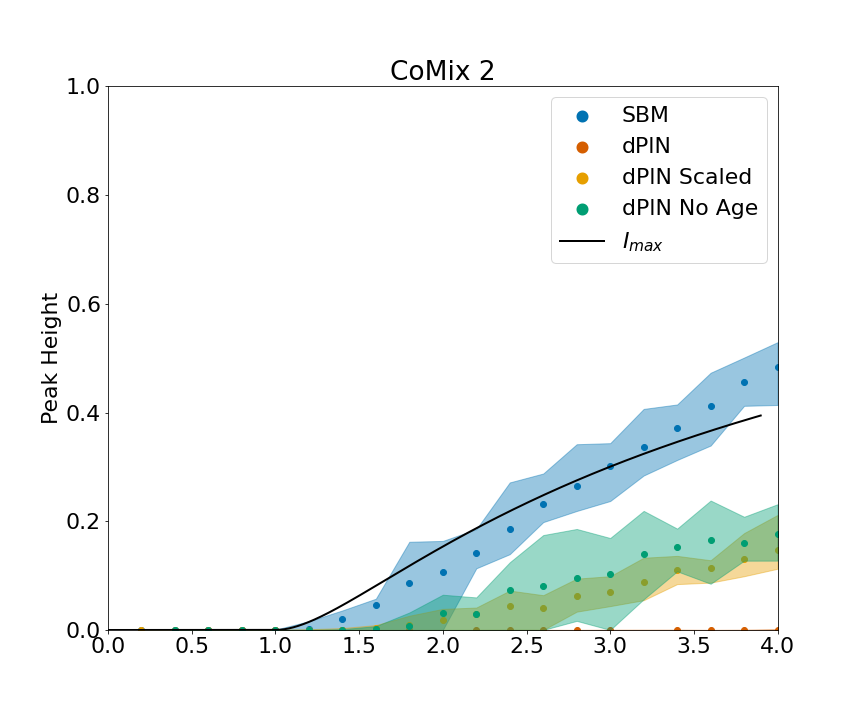
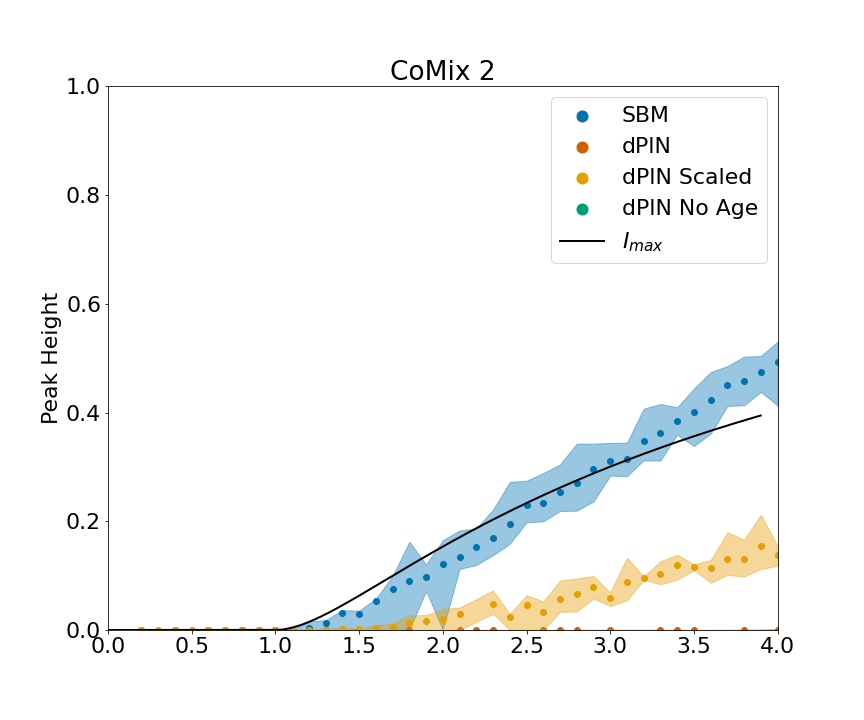
no age sims 3, normal and scaled 17

Changed region(s): [[0.3125, 0.55, 0.9062, 0.8861], [0.5938, 0.6417, 0.6562, 0.6722], [0.875, 0.4889, 0.9062, 0.5194]]

diff --git a/_final_sellke.py b/_final_sellke.py
@@ -22,10 +22,14 @@ scales = ['none', 'none']
 # taus = [[np.arange(0.1,0.205,0.005), np.arange(0.0005,0.01,0.0005)],
 #         [np.arange(0.05,0.2,0.01), np.arange(0.0005,0.01,0.0005)],
 #         [np.arange(0.001,0.1,0.005), np.arange(0.0025,0.05,0.0025)]]
-# 10,11,12,13,14,15,16,17
-taus = [[np.arange(0.1,0.305,0.005), np.arange(0.0001,0.005,0.0001)],
-        [np.arange(0.05,0.25,0.005), np.arange(0.0001,0.005,0.0001)],
-        [np.arange(0.001,0.1,0.002), np.arange(0.0001,0.04,0.0001)]]
+# 10,11,12,13,14,15,16
+# taus = [[np.arange(0.1,0.305,0.005), np.arange(0.0001,0.005,0.0001)],
+#         [np.arange(0.05,0.25,0.005), np.arange(0.0001,0.005,0.0001)],
+#         [np.arange(0.001,0.1,0.002), np.arange(0.0001,0.04,0.0001)]]
+# 17,18
+taus = [[np.arange(0.28,0.38,0.005), np.arange(0.0001,0.005,0.0001)],
+        [np.arange(0.2,0.32,0.005), np.arange(0.0001,0.002,0.0001)],
+        [np.arange(0.001,0.08,0.001), np.arange(0.0001,0.03,0.0001)]]
 
 ### long
 ## 0,1,2
@@ -42,6 +46,6 @@ for i, data in enumerate(datas):
         else:
             params = np.genfromtxt(f'input_data/parameters/params_{data}_{model}.csv', delimiter=',')
         result = nd_p.big_sellke_sims(partitions=partitions,contact_matrix=contact_matrix,network_params=params,n=n,dist_type=model,num_networks=1,iterations=iters, taus=taus[i][j],prop_infec=10/n, scaling=scales[j])
-        with open(f'../output_data/simulations/big/sellke/SIR/16_{data}_{model}_{scales[j]}.json','w') as f:
+        with open(f'../output_data/simulations/big/sellke/SIR/17_{data}_{model}_{scales[j]}.json','w') as f:
             json.dump(result, f)
 print('done')

diff --git a/_final_sellke_scale.py b/_final_sellke_scale.py
@@ -24,11 +24,16 @@ scales = ['fit1', 'fit2']
 #         [[],np.arange(0.001,0.07,0.002)],
 #         [[],np.arange(0.001,0.05,0.002)]]
 # taus = [[10*x for x in a] for a in taus]
-# 10,11,12,13,14,15,16,17
+# 10,11,12,13,14,15,16
+# taus = [[np.arange(0.0005,0.01,0.0005)],
+#         [np.arange(0.0005,0.09,0.0005)],
+#         [np.arange(0.0005,0.06,0.0005)]]
+# taus = [[10*x for x in a] for a in taus]
+# 17
 taus = [[np.arange(0.0005,0.01,0.0005)],
         [np.arange(0.0005,0.09,0.0005)],
         [np.arange(0.0005,0.06,0.0005)]]
-taus = [[10*x for x in a] for a in taus]
+taus = [[15*x for x in a] for a in taus]
 
 ##long
 ## 0,1,2
@@ -46,6 +51,6 @@ for i, data in enumerate(datas):
         else:
             params = np.genfromtxt(f'input_data/parameters/params_{data}_{model}.csv', delimiter=',')
         result = nd_p.big_sellke_sims(partitions=partitions,contact_matrix=contact_matrix,network_params=params,n=n,dist_type=model,num_networks=1,iterations=iters, taus=taus[i][j],prop_infec=10/n, scaling=scales[j])
-        with open(f'../output_data/simulations/big/sellke/SIR/16_{data}_{model}_{scales[j]}.json','w') as f:
+        with open(f'../output_data/simulations/big/sellke/SIR/17_{data}_{model}_{scales[j]}.json','w') as f:
             json.dump(result, f)
 print('done')

diff --git a/_final_sellke_noage_c1.py b/_final_sellke_noage_c1.py
@@ -59,6 +59,6 @@ for i, data in enumerate(datas):
         df = pd.read_csv(f'input_data/{data}.csv')
         _, contact_matrix, params = nd_p.fit_to_data(df=df,dist_type=model, buckets=buckets, save_fig=False)
         result = nd_p.big_sellke_sims(partitions=partitions,contact_matrix=contact_matrix,network_params=params,n=n,dist_type=model,num_networks=1,iterations=iters, taus=taus[i][j],prop_infec=10/n, scaling=scales[j])
-        with open(f'../output_data/simulations/big/sellke/SIR/2_{data}_{model}_{scales[j]}_noage.json','w') as f:
+        with open(f'../output_data/simulations/big/sellke/SIR/3_{data}_{model}_{scales[j]}_noage.json','w') as f:
             json.dump(result, f)
 print('done')

diff --git a/_final_sellke_noage_c2.py b/_final_sellke_noage_c2.py
@@ -58,6 +58,6 @@ for i, data in enumerate(datas):
         df = pd.read_csv(f'input_data/{data}.csv')
         _, contact_matrix, params = nd_p.fit_to_data(df=df,dist_type=model, buckets=buckets, save_fig=False)
         result = nd_p.big_sellke_sims(partitions=partitions,contact_matrix=contact_matrix,network_params=params,n=n,dist_type=model,num_networks=1,iterations=iters, taus=taus[i][j],prop_infec=10/n, scaling=scales[j])
-        with open(f'../output_data/simulations/big/sellke/SIR/2_{data}_{model}_{scales[j]}_noage.json','w') as f:
+        with open(f'../output_data/simulations/big/sellke/SIR/3_{data}_{model}_{scales[j]}_noage.json','w') as f:
             json.dump(result, f)
 print('done')

diff --git a/_final_sellke_noage_p.py b/_final_sellke_noage_p.py
@@ -57,6 +57,6 @@ for i, data in enumerate(datas):
         df = pd.read_csv(f'input_data/{data}.csv')
         _, contact_matrix, params = nd_p.fit_to_data(df=df,dist_type=model, buckets=buckets, save_fig=False)
         result = nd_p.big_sellke_sims(partitions=partitions,contact_matrix=contact_matrix,network_params=params,n=n,dist_type=model,num_networks=1,iterations=iters, taus=taus[i][j],prop_infec=10/n, scaling=scales[j])
-        with open(f'../output_data/simulations/big/sellke/SIR/2_{data}_{model}_{scales[j]}_noage.json','w') as f:
+        with open(f'../output_data/simulations/big/sellke/SIR/3_{data}_{model}_{scales[j]}_noage.json','w') as f:
             json.dump(result, f)
 print('done')
